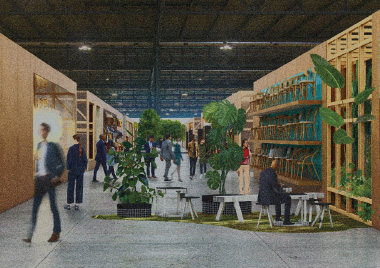
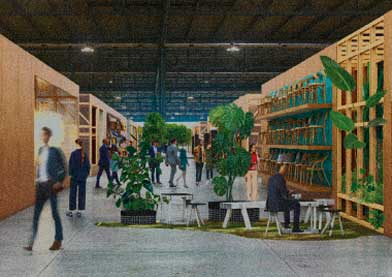
changements couleurs + contacts + expo maui

diff --git a/index.html b/index.html
@@ -94,25 +94,25 @@
         <li>Accident fatal d'avion</li>
       </ul>
       <div class="section-expo">
+        <h2 id="expo">exposition : maui©</h2>
+        <p>
+          <strong>Paddle up !</strong><br/>
+          Envolez-vous avec les tout nouveaux paddles de Maui ! Cette année, 
+          cap vers l’immensité spatiale avec la collection : Cosmonaute.<br/>
+          Au design raffiné, ils conviennent aux amateurs comme aux 
+          professionnels. Trois modèles à choix d’inspiration soviétique, axés 
+          sur la course spatial des années 50 à 70 :<br/>
+          Spoutnik-1, premier sattelite de l’histoire ; Belka et Strelka, 
+          les chiennes revenues de l’espace ; et Mars-2, première sonde à toucher 
+          le sol martien.
+        </p>
         <div class="container container-expo">
-          <h2 id="expo">exposition : maui©</h2>
           <p>
-            <strong>Paddle up !</strong><br/>
-            Envolez-vous avec les tout nouveaux paddles de Maui ! Cette année, 
-            cap vers l’immensité spatiale avec la collection : Cosmonaute.<br/>
-            Au design raffiné, ils conviennent aux amateurs comme aux 
-            professionnels. Trois modèles à choix d’inspiration soviétique, axés 
-            sur la course spatial des années 50 à 70 :<br/>
-            Spoutnik-1, premier sattelite de l’histoire ; Belka et Strelka, 
-            les chiennes revenues de l’espace ; et Mars-2, première sonde à toucher 
-            le sol martien.
+            Découvrez d’avantage sur :<br/>
+            <a  target="_blank" href="">maui.com</a>
           </p>
-          <p>
-            Découvrez d’avantage sur : <a  target="_blank" href="">maui.com</a>
-          </p>
-          <img src="img/paddle.png" alt="Modèle Spoutnik-1">
+          <img src="img/paddle-group.png" alt="Les paddles Maui">
         </div>
-        <img src="img/paddle-group.png" alt="Les paddles Maui">
       </div>
       <h2 id="infos">informations</h2>
       <p>
@@ -139,13 +139,10 @@
     </main>
     <footer>
       <h3>contacts</h3>
-      <div class="container container-contacts">   
-        <a target="_blank" href="https://www.facebook.com/">
-          <img src="img/facebook-logo.svg" alt="Logo Facebook">
-        </a>
-        <a target="_blank" href="mailto:swissdesignfair@gmail.com">
-          <img src="img/mail-logo.svg" alt="Logo Mail">
-        </a>
+      <div>
+        <a class="icon" target="_blank" href="https://instagram.com"><img src="img/instagram-logo.png" alt="Logo Instagram"></a>
+        <a class="icon" target="_blank" href="https://facebook.com"><img src="img/facebook-logo.png" alt="Logo Facebook"></a>
+        <a class="icon" target="_blank" href="mailto:swissdesignfair@gmail.com"><img src="img/mail-logo.png" alt="Logo Mail"></a>
       </div>
       <p>© 2023 SwissDesignFair</p>
       <nav class="container container-footer">

diff --git a/css/styles.css b/css/styles.css
@@ -24,7 +24,7 @@ body {
   max-width: 380px;
   margin: auto;
   color: #fff;
-  background: #636363;
+  background: #000;
   font-family: 'helvetica', sans-serif;
 }
 
@@ -44,10 +44,8 @@ header p {
   text-align: center;
 }
 
-nav {
-  background: #27160e;
-  position: sticky;
-  top: 0;
+header nav {
+  background: #3F3428;
 }
 
 nav a {
@@ -59,7 +57,7 @@ nav a {
 }
 
 nav a:hover {
-  color: #ad823c;
+  color: #A2917B;
 }
 
 .container-nav {
@@ -71,6 +69,10 @@ nav a:hover {
 nav strong {
   font-weight: 700;
   margin: 0 20px 0 0;
+}
+
+nav strong:hover {
+  color: #fff;
 }
 
 .container-title-header {
@@ -89,12 +91,12 @@ h2 {
   text-transform: uppercase;
   font-size: 25px;
   font-weight: 700;
-  padding: 70px 0 16px 16px;
+  padding: 70px 0 10px 16px;
   margin: 0;
 }
 
 main {
-  background: #3f291d;
+  background: #A2917B;
 }
 
 main p {
@@ -161,6 +163,8 @@ main p {
 ul {
   list-style-type: "✦";
   line-height: 23px;
+  font-size: 16px;
+  font-weight: 300;
 }
 
 li {
@@ -173,12 +177,22 @@ li {
 }
 
 .container-expo {
-  display: flex;
-  flex-flow: row wrap;
+  background-image: url(../img/expo-bg.jpg);
+  padding: 40px 0 20px 0;
 }
 
-.section-expo img {
-  max-height: 430px;
+.container-expo img {
+  max-height: 500px;
+  max-width: 300px;
+  margin: auto;
+}
+
+.container-expo p {
+  margin: auto;
+  padding: 0;
+  font-size: 18px;
+  font-weight: 400;
+  text-align: center;
 }
 
 .section-expo a {
@@ -187,8 +201,8 @@ li {
 }
 
 .section-expo a:hover {
-  color: #ad823c;
-  text-decoration: underline solid 1px #ad823c;
+  color: #A2917B;
+  text-decoration: underline solid 1px #A2917B;
 }
 
 .section-expo strong {
@@ -226,7 +240,7 @@ h3 {
 }
 
 footer {
-  background: #27160e;
+  background: #3F3428;
 }
 
 footer p {
@@ -241,15 +255,30 @@ footer a {
   text-align: center;
   color: #fff;
   text-decoration: underline solid 1px #fff;
-  padding: 0 5px 43px;
+  padding: 0 5px 40px;
 }
 
 footer a:hover {
-  color: #ad823c;
-  text-decoration: underline solid 1px #ad823c;
+  color: #A2917B;
+  text-decoration: underline solid 1px #A2917B;
 }
 
 .container-footer {
   display: flex;
   justify-content: center;
+}
+
+footer img {
+  max-width: 70px;
+  padding: 0;
+  margin: 10px 10px 15px;
+}
+
+footer div {
+  display: flex;
+  justify-content: center;
+}
+
+.icon {
+  padding: 0;
 }
